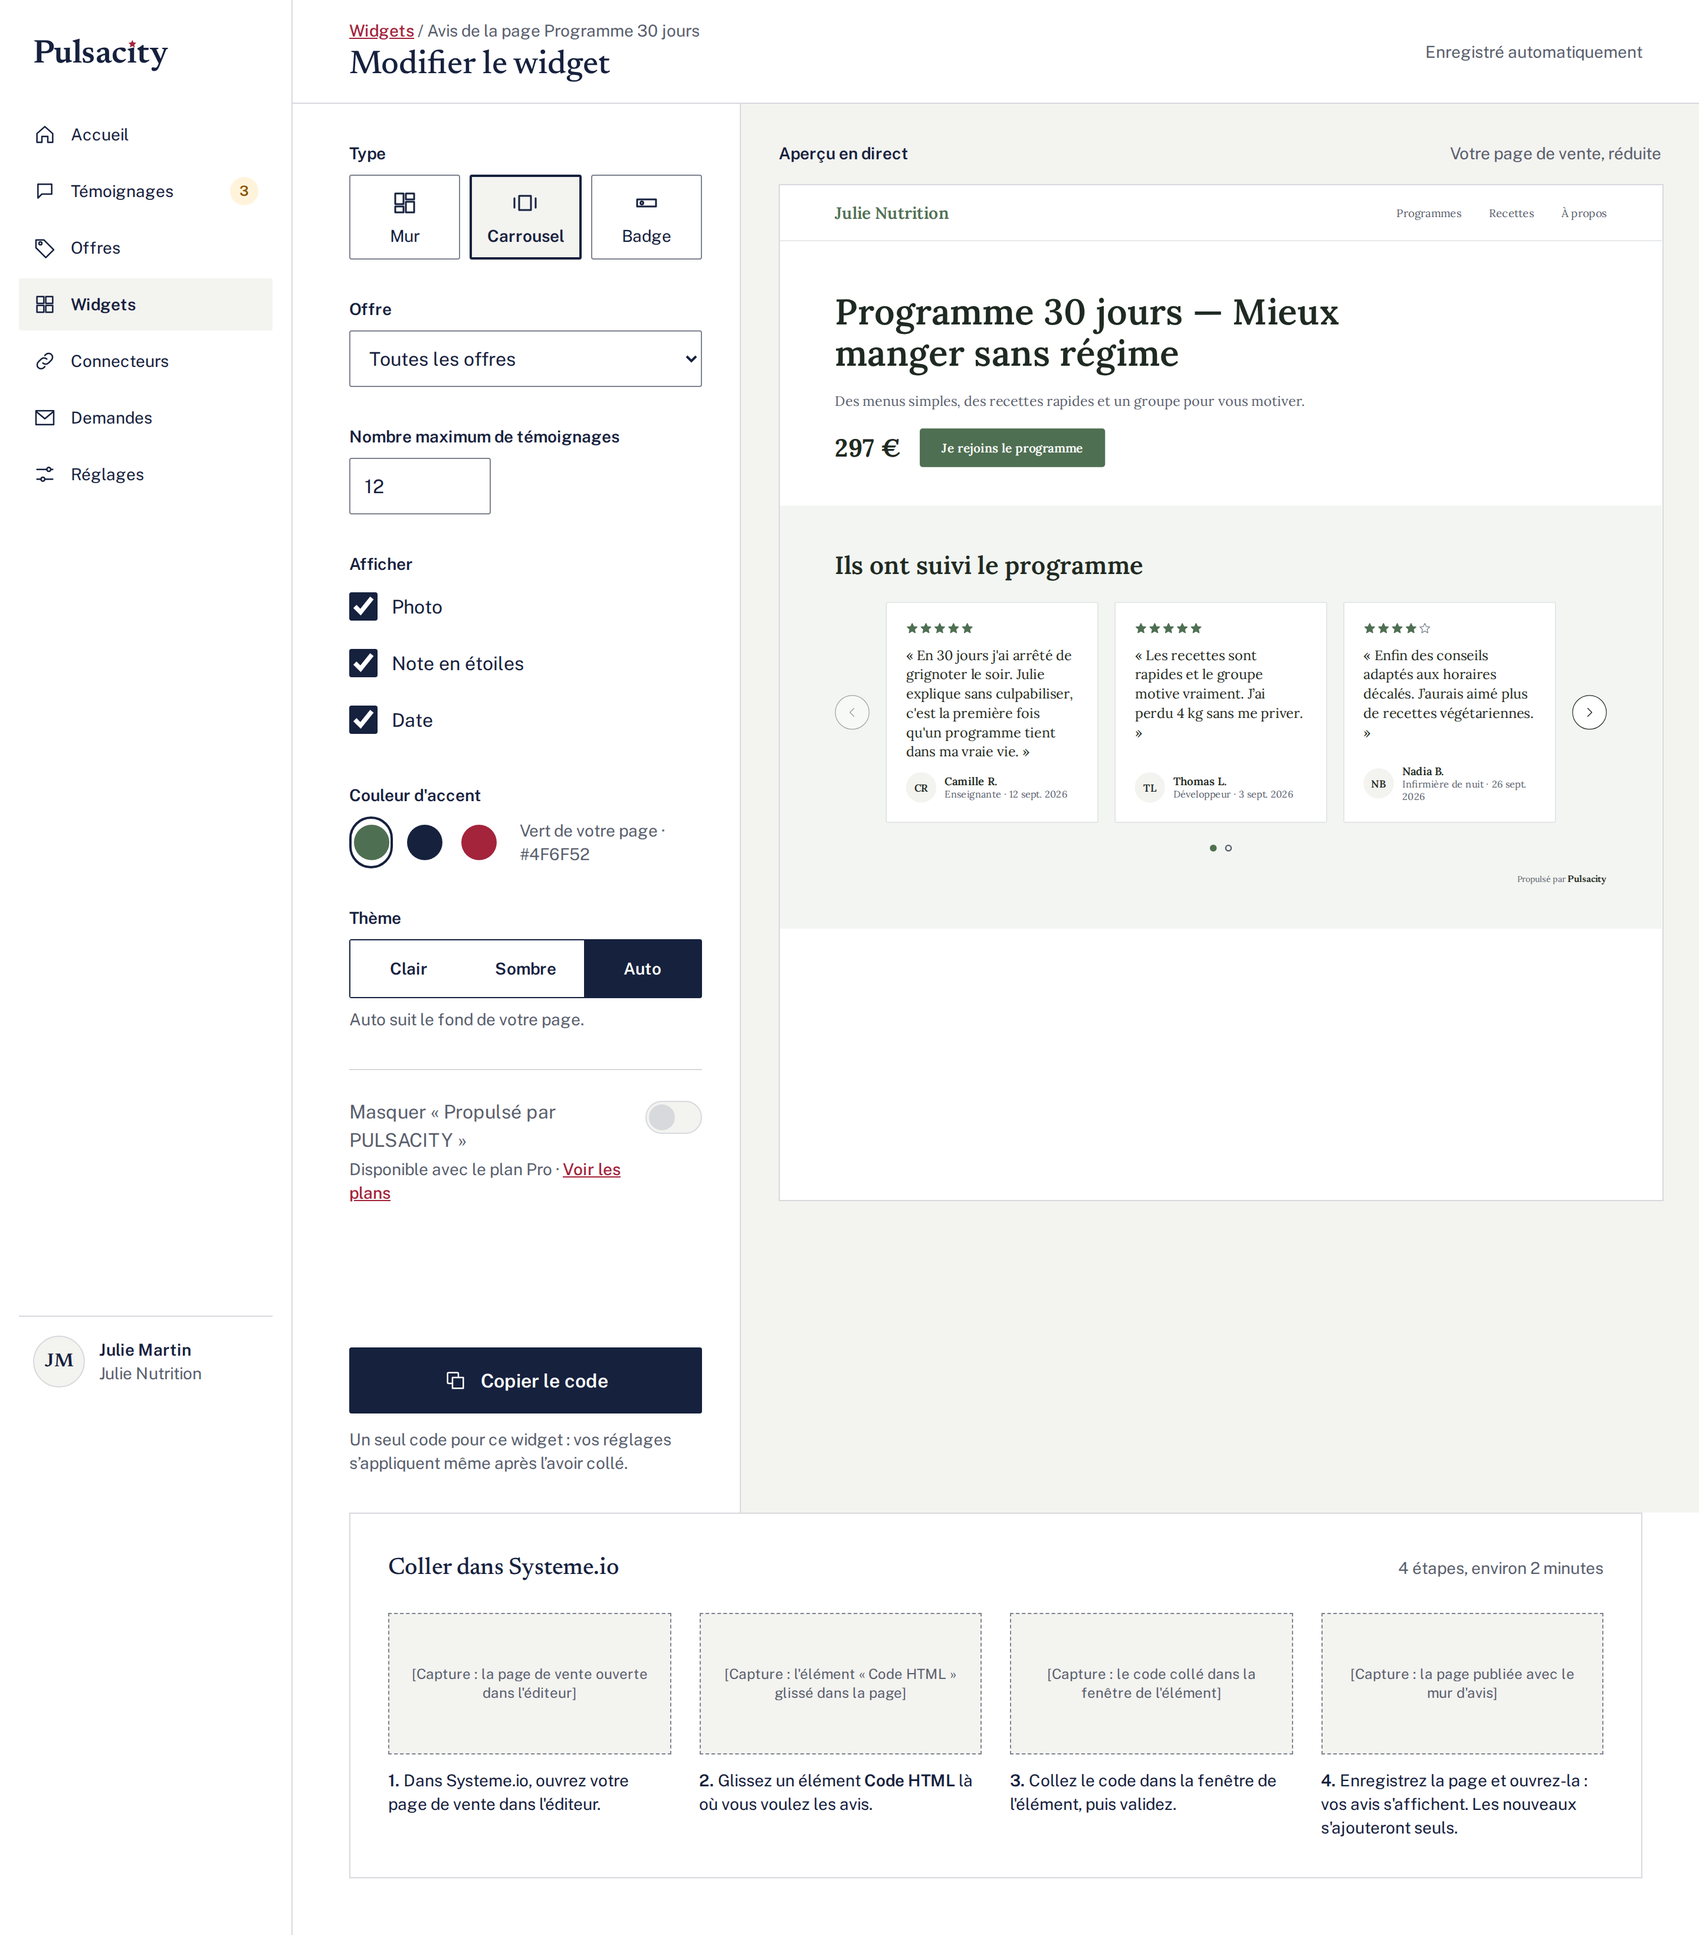
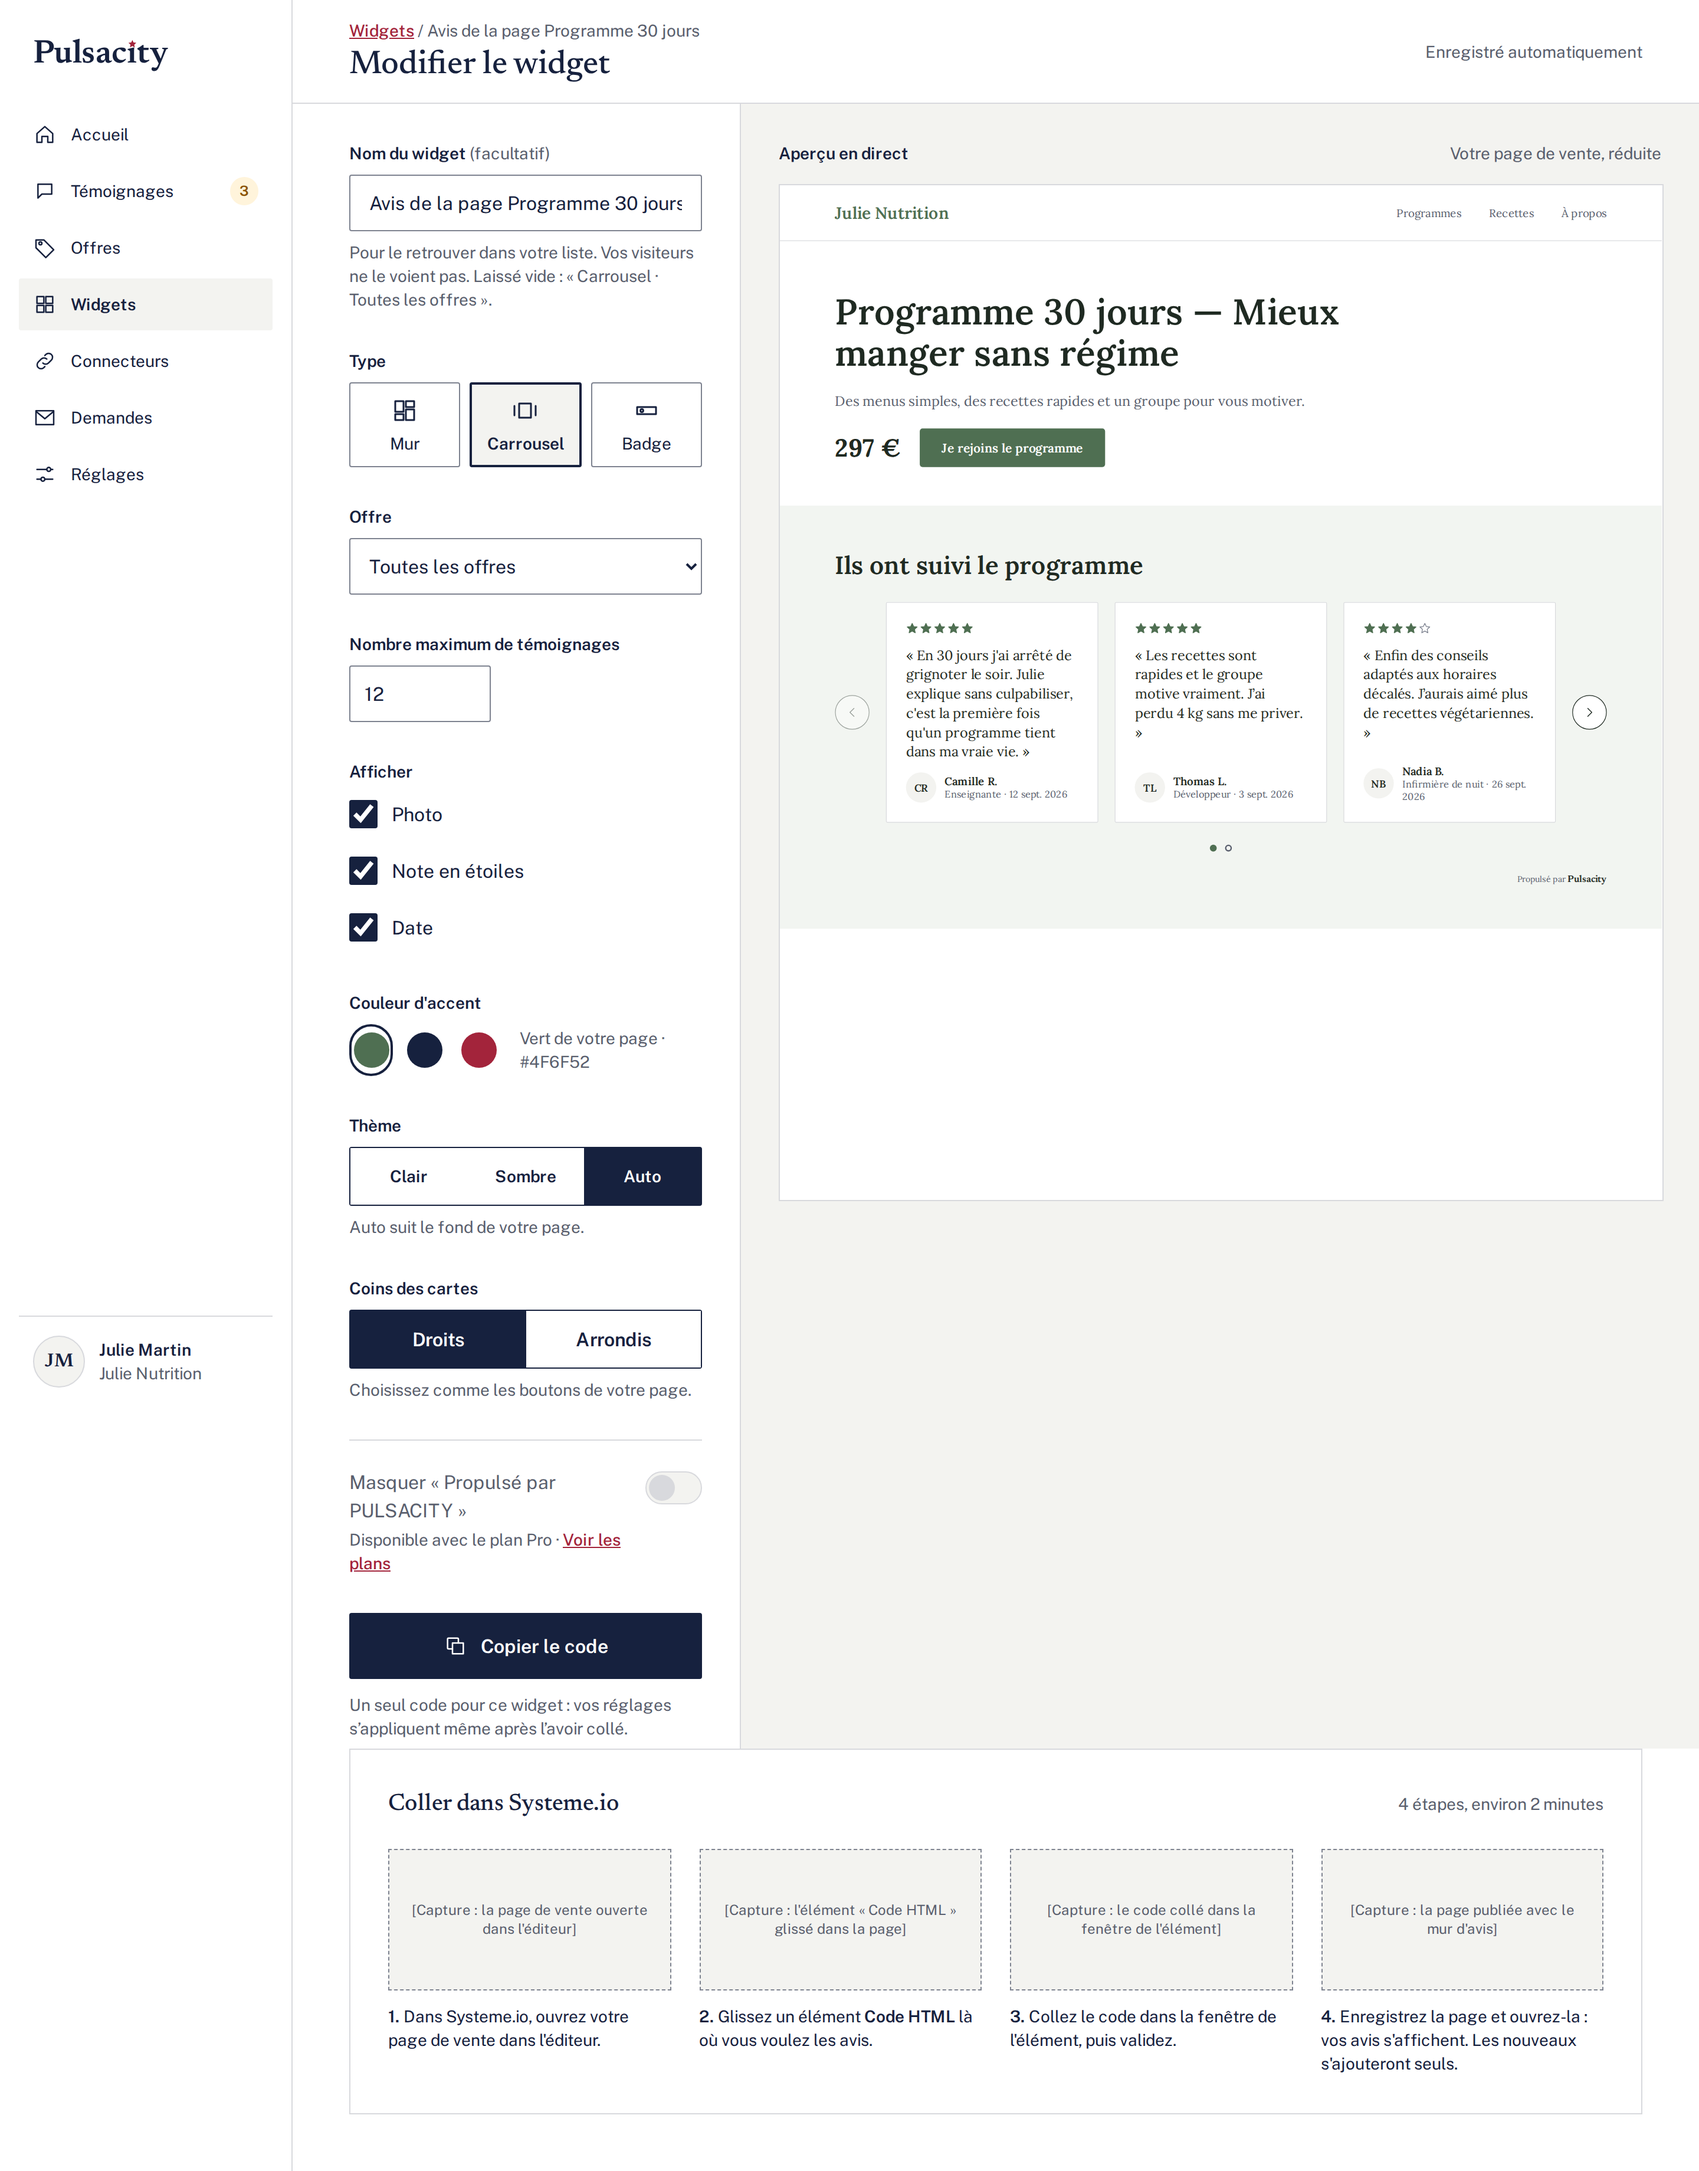
Add Design's widget mockups of October 2: list, mobile editor, loadings, name and corners
m18 lists the widgets, m6 gains its mobile editor, a name field and the corners of the cards, and m2 draws the loading of the carousel and the badge. The m6 desktop exports, m4 first day and m8 yearly pricing are corrected.

Claude-Session: https://claude.ai/code/session_01KYdDJBMTzGGB5wwvL42r3E

diff --git a/docs-internes/maquettes/INDEX.md b/docs-internes/maquettes/INDEX.md
@@ -73,6 +73,7 @@ Tous les fichiers listés ici sont présents dans ce dossier : PNG à l'échelle
 | m6-editeur-desktop-04-theme-sombre.png | Éditeur · Play : thème Sombre |
 | m6-editeur-desktop-05-filtre-offre.png | Éditeur · Play : offre « Suivi individuel 3 mois » |
 | m6-editeur-desktop-06-code-copie.png | Éditeur · état « Code copié » |
+| m6-editeur-desktop-07-coins-arrondis.png | Éditeur · Play : coins des cartes « Arrondis » |
 
 ## m7 — Page d'accueil (page « Page d'accueil »)
 | Fichier | Planche · état |
@@ -255,3 +256,39 @@ La planche « Micro-animations · démo » est interactive (mode Play) et n'a pa
 | m17-offres-desktop-05-retrait-impossible.png | Offres · Retrait impossible · 1440 |
 | m17-offres-mobile-06-vide.png | Offres · État vide · 360 |
 | m17-offres-desktop-06-vide.png | Offres · État vide · 1440 |
+
+
+# Lot widget — 2 oct. 2026
+
+## m2 — Chargement du carrousel et du badge (page « Widgets »)
+| Fichier | Planche · état |
+| --- | --- |
+| m2-widgets-desktop-05-carrousel-chargement-clair.png | Carrousel · chargement (page A, desktop) |
+| m2-widgets-desktop-06-carrousel-chargement-sombre.png | Carrousel · chargement (page B, desktop) |
+| m2-widgets-desktop-07-badge-chargement-clair.png | Badge · chargement (page A, desktop) |
+| m2-widgets-desktop-08-badge-chargement-sombre.png | Badge · chargement (page B, desktop) |
+| m2-widgets-mobile-04-carrousel-chargement-clair.png | Carrousel · chargement (page A, mobile) |
+| m2-widgets-mobile-05-carrousel-chargement-sombre.png | Carrousel · chargement (page B, mobile) |
+| m2-widgets-mobile-06-badge-chargement-clair.png | Badge · chargement (page A, mobile) |
+| m2-widgets-mobile-07-badge-chargement-sombre.png | Badge · chargement (page B, mobile) |
+
+## m6 — Éditeur de widget, mobile 360 (page « Widgets : éditeur et liste »)
+| Fichier | Planche · état |
+| --- | --- |
+| m6-editeur-mobile-01-reglages.png | Éditeur mobile · Réglages · 360 |
+| m6-editeur-mobile-02-apercu.png | Éditeur mobile · Aperçu en direct · 360 |
+| m6-editeur-mobile-03-code-copie.png | Éditeur mobile · Code copié · 360 |
+| m6-editeur-mobile-04-code-envoye.png | Éditeur mobile · Code envoyé par e-mail · 360 |
+| m6-editeur-mobile-05-guide-systemeio.png | Éditeur mobile · Guide « Coller dans Systeme.io » · 360 |
+
+## m18 — Liste des widgets (page « Widgets : éditeur et liste »)
+| Fichier | Planche · état |
+| --- | --- |
+| m18-widgets-mobile-01-liste.png | Widgets · Liste (plan Essentiel) · 360 |
+| m18-widgets-desktop-01-liste.png | Widgets · Liste (plan Essentiel) · 1440 |
+| m18-widgets-mobile-02-plan-gratuit.png | Widgets · Plan Gratuit, limite atteinte · 360 |
+| m18-widgets-desktop-02-plan-gratuit.png | Widgets · Plan Gratuit, limite atteinte · 1440 |
+| m18-widgets-mobile-03-vide.png | Widgets · État vide · 360 |
+| m18-widgets-desktop-03-vide.png | Widgets · État vide · 1440 |
+
+Corrigés dans ce lot : m6-editeur-desktop-01 à 06 (champ « Nom du widget », réglage « Coins des cartes ») ; m6-editeur-desktop-06 (montre bien « Code copié ») ; m8-tarifs-desktop-02 (montre bien l’annuel) ; m4-espace-desktop-04 (sans pastille d’attente).
